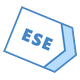
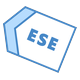
fix(wind): ship real blowing-to arrows and say what the setting does
The 16 images/wind-direction/Wind<DIR>.png were byte-identical to the default set, so
the Wind direction toggle changed nothing on screen: it swapped each file for its own
duplicate. They are regenerated with the pointer on the opposite side and the compass
label left upright, which is what the feature has meant since d2e5271 ("display wind
direction instead of origin"). The transform and its recipe live in the images-machinon
workspace (glyph_flip.py, replayable through the ledger's cut).

The hub row used one string, "Wind direction as an icon", as BOTH its label and its
description, which described neither the default nor what the switch changes. It now
says it plainly: Domoticz reports the direction the wind comes from, the arrow normally
points that way, and this points it the opposite way instead. The note that the compass
letter always stays the reported one is there to head off the obvious question, why the
badge says N while the arrow points south.

DESIGN.md's feature table gets the same correction, plus the reason the two icon sets
must never be collapsed into one again.

Verified on the test instance with a Wind device reading S: arrow up with the feature
on, down with it off. Guarded by dz-wind-direction-check.js in the docker-test repo,
which fails when the two sets are byte-identical.

diff --git a/src/js/theme-manifest.js b/src/js/theme-manifest.js
@@ -273,8 +273,12 @@ var THEME_MANIFEST = [
             },
             {
                 key: "wind_direction", storageKey: "wind_direction", control: "toggle",
-                label: "Wind direction as an icon", description: "Wind direction as an icon",
-                appliesTo: "Weather cards", previewId: null, parent: null,
+                label: "Wind arrow points where the wind goes",
+                description: "Domoticz reports the direction wind comes FROM, and the arrow "
+                    + "normally points that way. Turn this on to point it the opposite way, "
+                    + "at where the wind is blowing TO. The compass label (N, SW) always "
+                    + "stays the reported one.",
+                appliesTo: "Wind device cards", previewId: null, parent: null,
                 reloadOnDisable: false, status: "keep"
             },
             {

diff --git a/DESIGN.md b/DESIGN.md
@@ -1467,7 +1467,7 @@ Toggled via `theme.json` features object. Each feature has an `enabled` boolean 
 | Fade off items | `fade_off_items` | off | (none) | Reduces opacity to 0.5 on "Off" status devices. |
 | Time ago | `time_ago` | on | (none) | Converts timestamps to relative format via livestamp.js/moment.js. |
 | Standby | `standby` | off | `standby.js`, `standby.css` | Screen dimming after configurable idle timeout. |
-| Wind direction | `wind_direction` | on | (none) | Custom wind direction arrow icons on weather devices. |
+| Wind direction | `wind_direction` | on | (none) | Points the wind arrow at where the wind is blowing TO instead of where it comes FROM. Core reports the meteorological origin (it reads met.no's `wind_from_direction` verbatim) and both core's compass art and the theme's default `images/Wind<DIR>.png` point at it; this swaps in `images/wind-direction/Wind<DIR>.png`, the same glyphs with the pointer moved to the opposite side and the compass label left upright. The two sets must never be the same art: see `images-machinon/scripts/glyph_flip.py`. |
 | Custom colors | `custom_color_scheme` | off | (none) | Enables user-defined color overrides via settings UI. |
 | Custom icons | `icon_image` | off | (none) | Per-device custom icon images from `theme.json` icons array. |
 | Check update | `check_update` | on | `check_update.js` | Checks for Domoticz software updates. |
